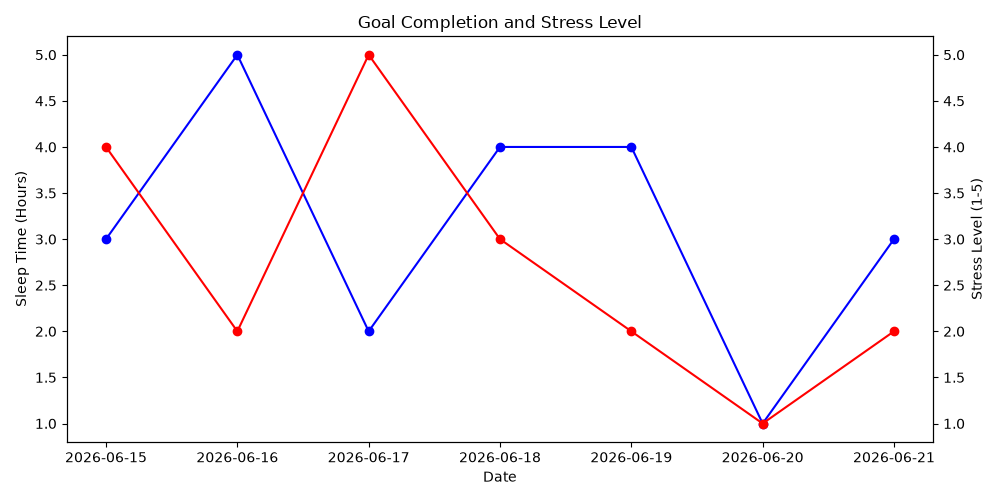
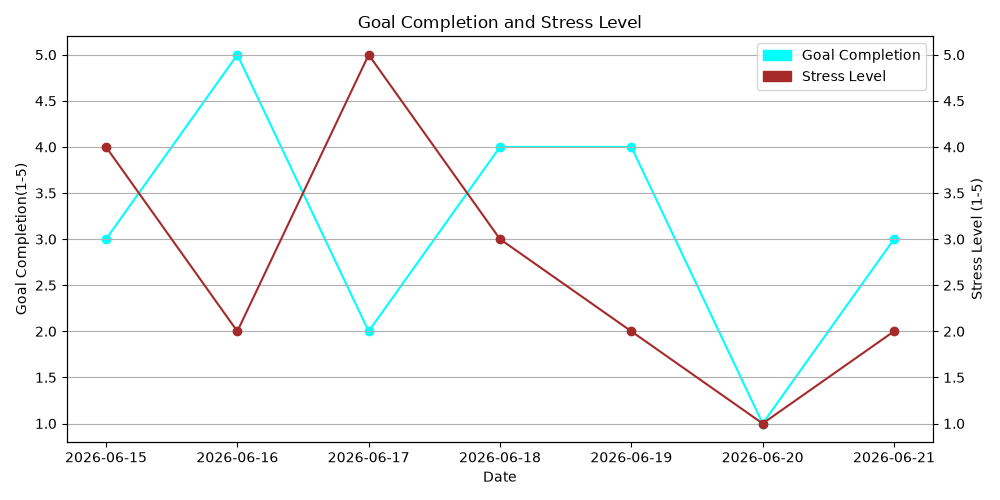
color explination

diff --git a/study_checker.py/study_load_recovery.py b/study_checker.py/study_load_recovery.py
@@ -9,6 +9,7 @@ from datetime import datetime
 from easygui import *
 import matplotlib.pyplot as plt
 import os
+import matplotlib.patches as mpatches
 
 record_file="record.json"
 graph_file="graph.png"
@@ -422,7 +423,6 @@ def analyse_records(records):
         analysis_text += "The social time is low,so you may need to connect\
             more with your friends or family\n"
 
-    
     msgbox(analysis_text, app_title)
 
 
@@ -459,38 +459,49 @@ def generate_graph(records):
     fig, ax1 = plt.subplots(figsize=(10, 5))
  
     ax1.plot(dates, sleep_times, c="blue",marker="o", label="Sleep Time")
+    red_patch = mpatches.Patch(color='red', label="Focus Level")
+    
     ax1.set_xlabel("Date")
     ax1.set_ylabel("Sleep Time (Hours)")
  
     ax2 = ax1.twinx()
     ax2.plot(dates, focus_levels,c="red", marker="o", label="Focus Level")
+    blue_patch = mpatches.Patch(color='blue', label="Sleep Time")
+    plt.legend(handles=[red_patch, blue_patch], loc='upper right', framealpha
+               =0.8)
     ax2.set_ylabel("Focus Level (1-5)")
  
     plt.title("Sleep Time and Focus Level Over Time")
     plt.xticks(rotation=45)
     fig.tight_layout()
-    file_path = os.path.join("./analysis_image")
-    plt.savefig(file_path,"sleep_focus_graph.png")
+    plt.grid(True)
+    file_path = os.path.join("./analysis_image","sleep_focus_graph.png")
+    plt.savefig(file_path)
     plt.close()
  
     # Graph 2: Stress level and goal completion over time
     fig, ax2 = plt.subplots(figsize=(10, 5))
  
-    ax2.plot(dates, goal_completion, c="blue",marker="o", label="Goal Completion")
+    ax2.plot(dates, goal_completion, c="cyan",marker="o", label="Goal " \
+    "Completion")
+    cyan_patch = mpatches.Patch(color="cyan", label="Goal Completion")
     ax2.set_xlabel("Date")
-    ax2.set_ylabel("Sleep Time (Hours)")
+    ax2.set_ylabel("Goal Completion(1-5)")
  
-    ax3 = ax1.twinx()
-    ax3.plot(dates, stress_levels,c="red", marker="o", label="Stress Level")
+    ax3 = ax2.twinx()
+    ax3.plot(dates, stress_levels,c="brown", marker="o", label="Stress Level")
+    brown_patch = mpatches.Patch(color="brown", label="Stress Level")
+    plt.legend(handles=[cyan_patch, brown_patch], loc='upper right', framealpha
+               =0.8)
     ax3.set_ylabel("Stress Level (1-5)")
  
     plt.title("Goal Completion and Stress Level")
     plt.xticks(rotation=45)
     fig.tight_layout()
-    file_path = os.path.join("./analysis_image")
-    plt.savefig(file_path,"goal_stress_graph.png")
+    plt.grid(True)
+    file_path = os.path.join("./analysis_image","goal_stress_graph.png")
+    plt.savefig(file_path)
     plt.close()
-
 
     # Graph 3: Average time bar chart
     average_study = sum(study_times) / len(study_times)
@@ -506,8 +517,8 @@ def generate_graph(records):
     plt.xlabel("Category")
     plt.ylabel("Average Hours")
     plt.tight_layout()
-    file_path = os.path.join("./analysis_image")
-    plt.savefig(file_path,"average_time_bar_graph.png")
+    file_path = os.path.join("./analysis_image","average_time_bar_graph.png")
+    plt.savefig(file_path)
     plt.close()
  
     msgbox(
@@ -517,9 +528,7 @@ def generate_graph(records):
         "3. average_time_bar_graph.png",
         app_title
     )
-
     
-
 
 def main(): 
     while True:

diff --git a/study_checker.py/testing.py b/study_checker.py/testing.py
@@ -4,7 +4,7 @@ from easygui import *
 import os
 app_title = "tracker"
 date = "2026-06-15" 
-
+records2 = {}
 records = {
     "2026-06-15": {
         "study": {"study_time": 4.5, "goal_completion": 3},
@@ -203,7 +203,8 @@ def analyse_records(records):
 
 
 import matplotlib.pyplot as plt
- 
+import matplotlib.patches as mpatches
+import numpy as np
 def generate_graph(records):
     """Generate  line graphs to show the tendency of each two variables
     and bar graph to show the whole performance of users.
@@ -237,16 +238,22 @@ def generate_graph(records):
     fig, ax1 = plt.subplots(figsize=(10, 5))
  
     ax1.plot(dates, sleep_times, c="blue",marker="o", label="Sleep Time")
+    red_patch = mpatches.Patch(color='red', label="Focus Level")
+    
     ax1.set_xlabel("Date")
     ax1.set_ylabel("Sleep Time (Hours)")
  
     ax2 = ax1.twinx()
     ax2.plot(dates, focus_levels,c="red", marker="o", label="Focus Level")
+    blue_patch = mpatches.Patch(color='blue', label="Sleep Time")
+    plt.legend(handles=[red_patch, blue_patch], loc='upper right', framealpha
+               =0.8)
     ax2.set_ylabel("Focus Level (1-5)")
  
     plt.title("Sleep Time and Focus Level Over Time")
     plt.xticks(rotation=45)
     fig.tight_layout()
+    plt.grid(True)
     file_path = os.path.join("./analysis_image","sleep_focus_graph.png")
     plt.savefig(file_path)
     plt.close()
@@ -254,17 +261,23 @@ def generate_graph(records):
     # Graph 2: Stress level and goal completion over time
     fig, ax2 = plt.subplots(figsize=(10, 5))
  
-    ax2.plot(dates, goal_completion, c="blue",marker="o", label="Goal Completion")
+    ax2.plot(dates, goal_completion, c="cyan",marker="o", label="Goal " \
+    "Completion")
+    cyan_patch = mpatches.Patch(color="cyan", label="Goal Completion")
     ax2.set_xlabel("Date")
-    ax2.set_ylabel("Sleep Time (Hours)")
+    ax2.set_ylabel("Goal Completion(1-5)")
  
     ax3 = ax2.twinx()
-    ax3.plot(dates, stress_levels,c="red", marker="o", label="Stress Level")
+    ax3.plot(dates, stress_levels,c="brown", marker="o", label="Stress Level")
+    brown_patch = mpatches.Patch(color="brown", label="Stress Level")
+    plt.legend(handles=[cyan_patch, brown_patch], loc='upper right', framealpha
+               =0.8)
     ax3.set_ylabel("Stress Level (1-5)")
  
     plt.title("Goal Completion and Stress Level")
     plt.xticks(rotation=45)
     fig.tight_layout()
+    plt.grid(True)
     file_path = os.path.join("./analysis_image","goal_stress_graph.png")
     plt.savefig(file_path)
     plt.close()
@@ -295,7 +308,4 @@ def generate_graph(records):
         "3. average_time_bar_graph.png",
         app_title
     )
-
-generate_graph(records)
-
-
+generate_graph(records2)
